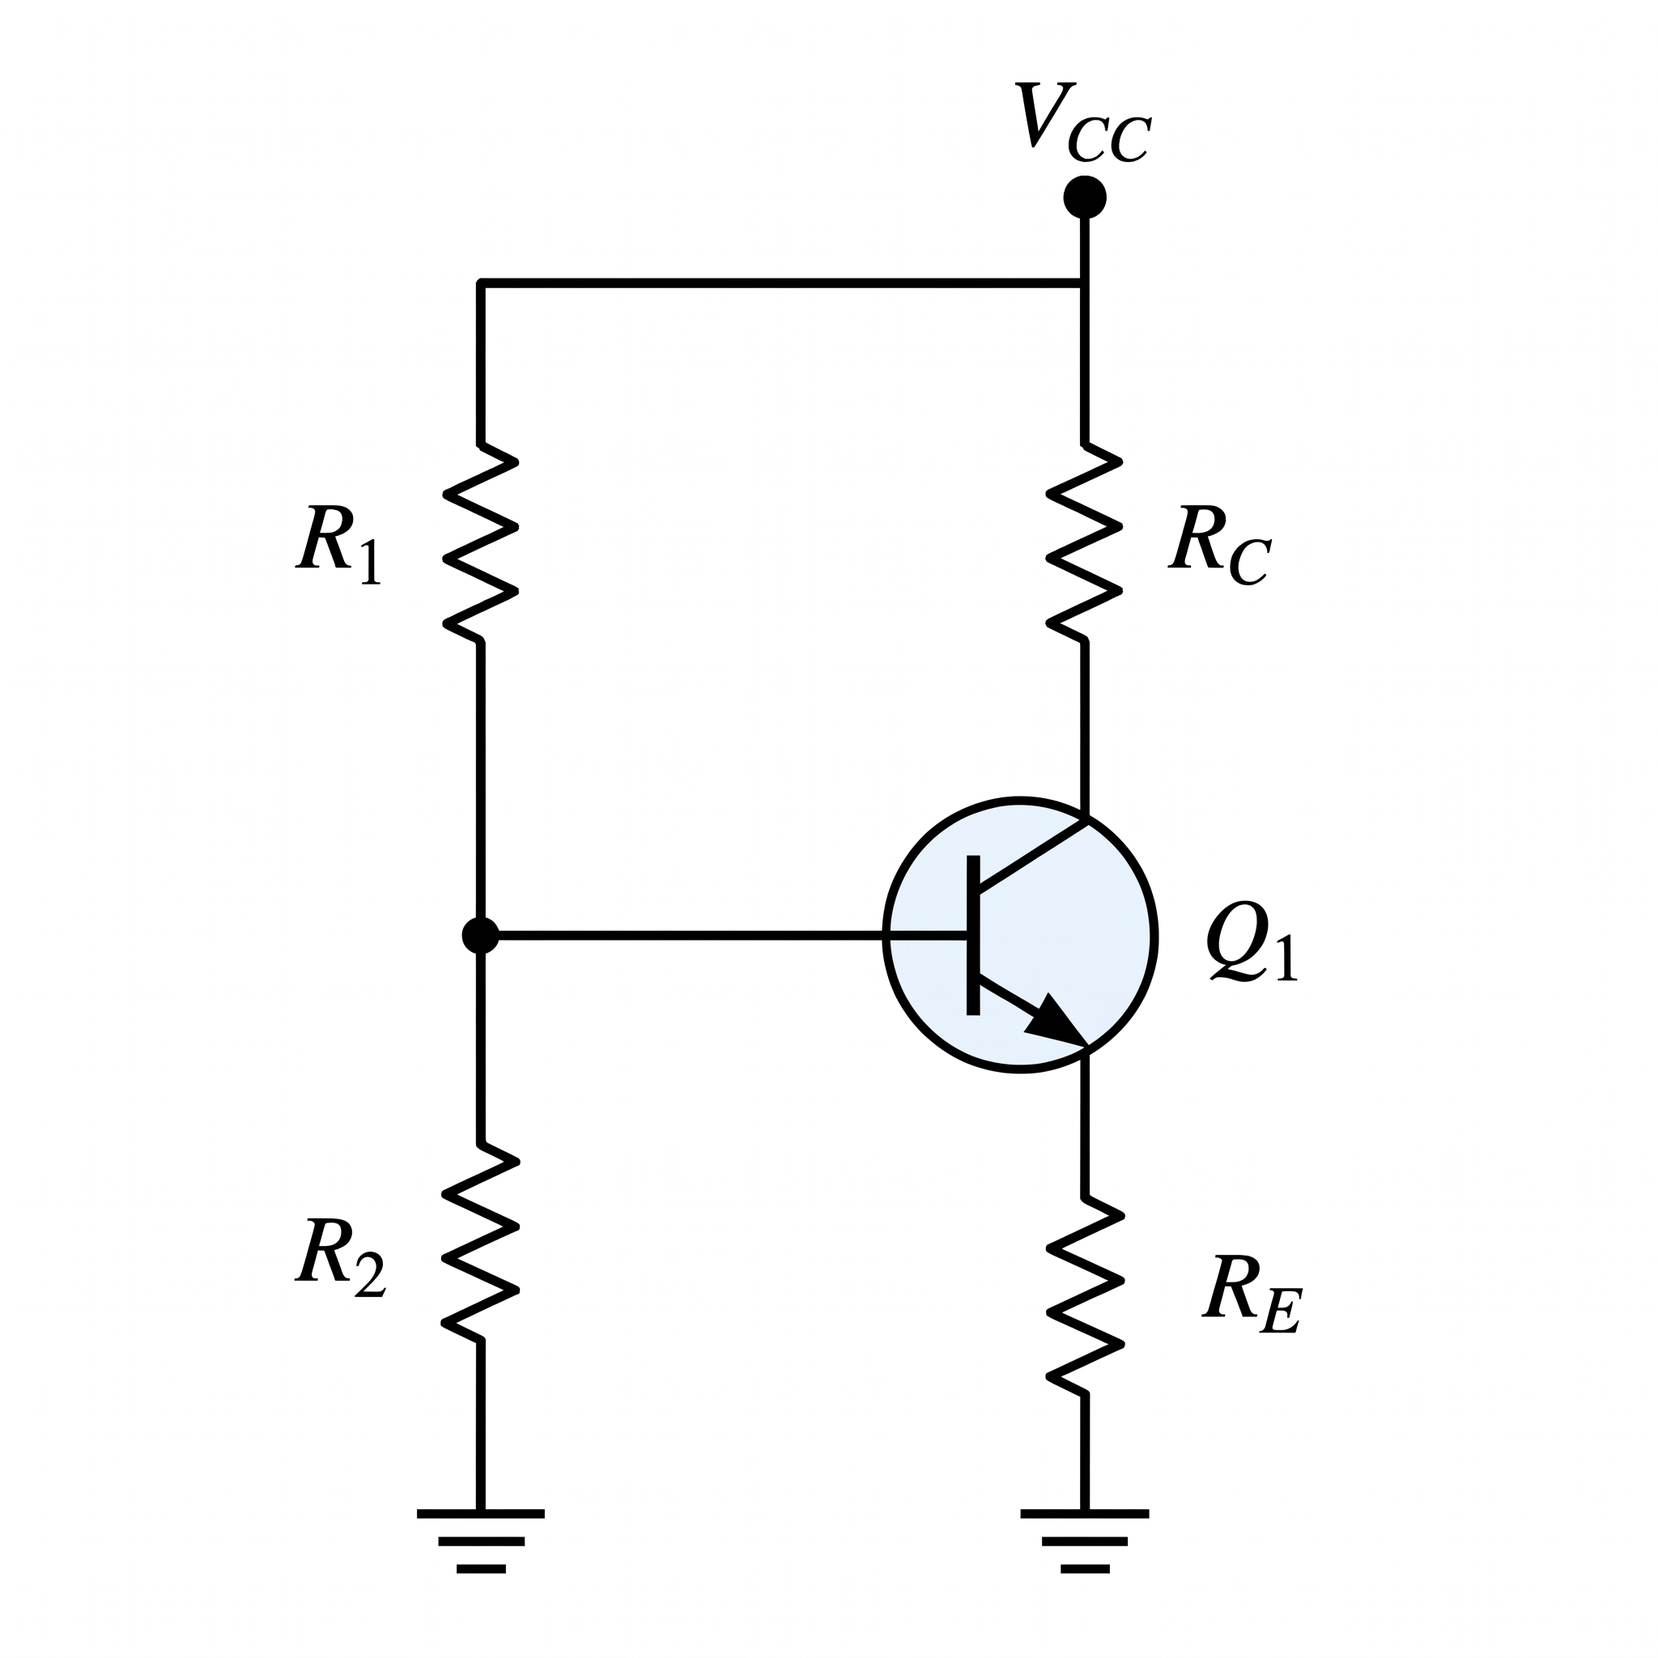
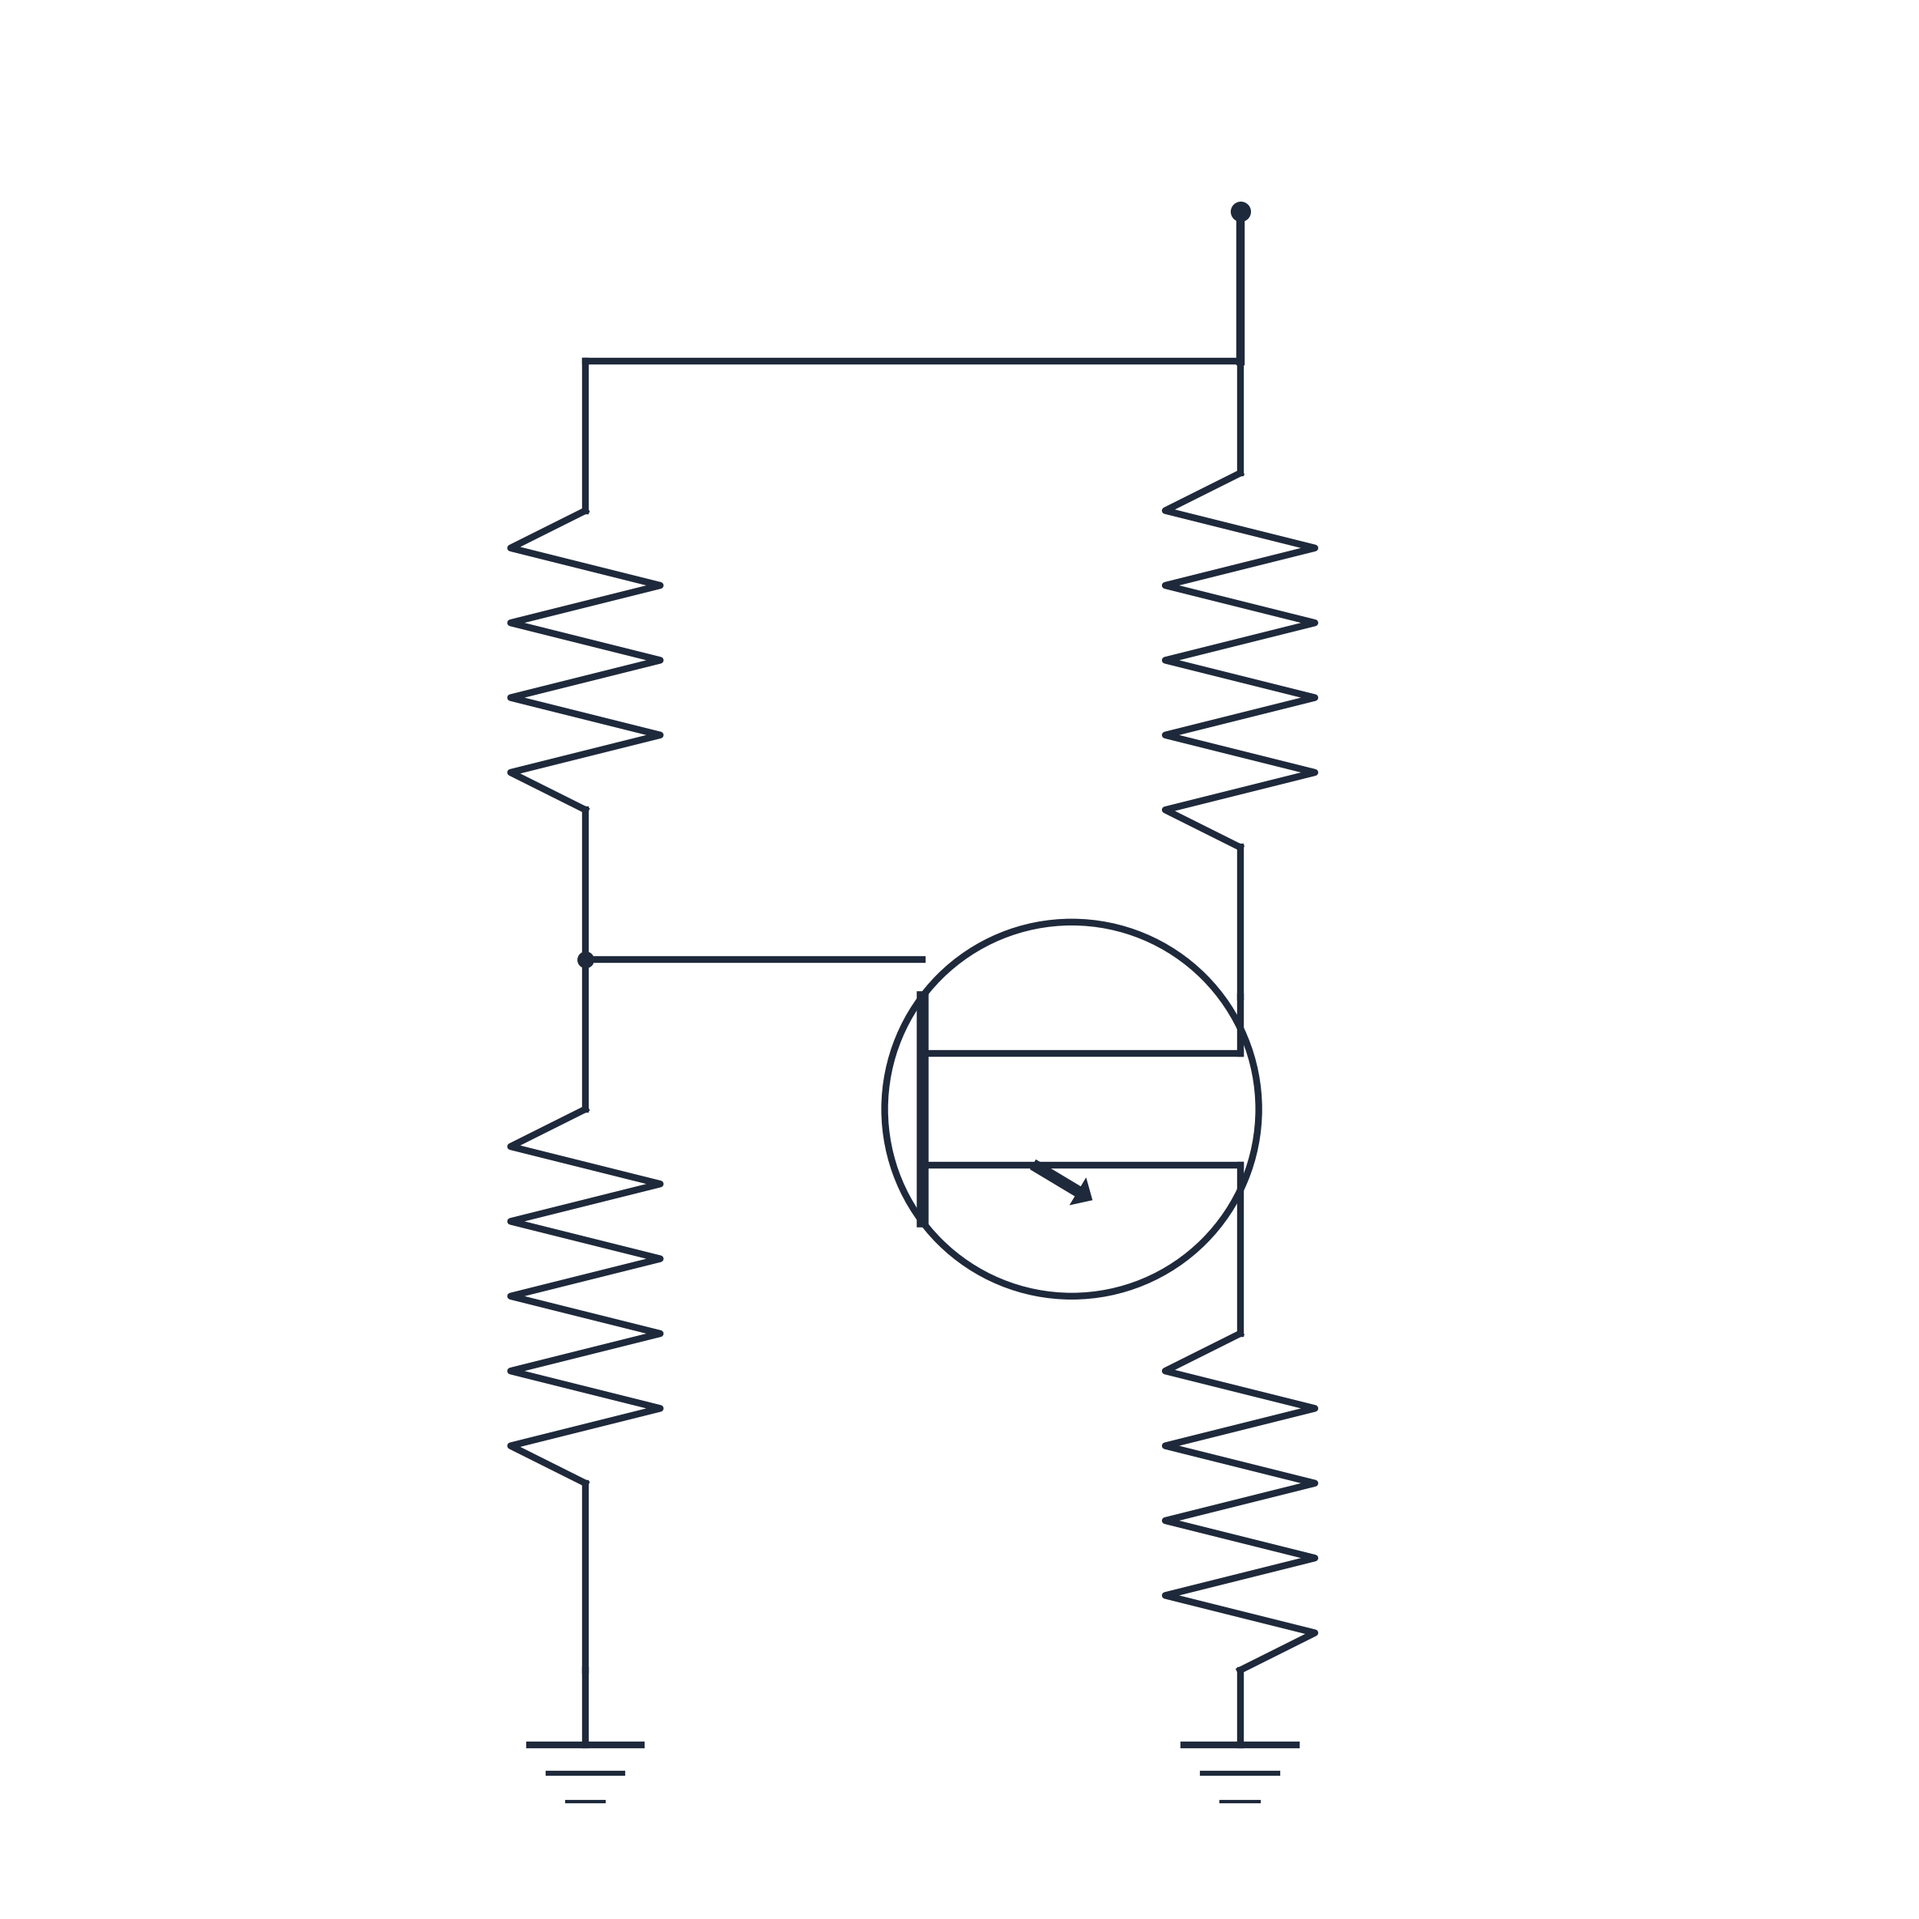
feat: update circuit image, stylesheet, and template layout

Changed region(s): [[0.1875, 0.0312, 0.7812, 0.9688], [0.7188, 0.75, 0.7812, 0.8125], [0.1875, 0.2812, 0.2188, 0.3438]]

diff --git a/templates/index.html b/templates/index.html
@@ -127,7 +127,7 @@
                     <span class="circuit-overlay overlay-r1" id="label-r1">R1</span>
                     <span class="circuit-overlay overlay-r2" id="label-r2">R2</span>
                     <span class="circuit-overlay overlay-re" id="label-re">RE</span>
-                    <span class="circuit-overlay overlay-beta" id="label-beta">(&beta; = 100)</span>
+                    <span class="circuit-overlay overlay-beta" id="label-beta">&beta;</span>
                 </div>
                 <p class="circuit-caption">BJT Common-Emitter DC Bias (Voltage Divider)</p>
                 <script>
@@ -144,7 +144,7 @@
                         document.getElementById('label-r2').innerText = 'R2 = ' + r2Val + ' kΩ';
                         document.getElementById('label-rc').innerText = 'RC = ' + rcVal + ' kΩ';
                         document.getElementById('label-re').innerText = 'RE = ' + reVal + ' kΩ';
-                        document.getElementById('label-beta').innerText = '(β = ' + betaVal + ')';
+                        document.getElementById('label-beta').innerText = 'β = ' + betaVal;
                     }
                     window.onload = updateDiagramLabels;
                 </script>

diff --git a/static/style.css b/static/style.css
@@ -255,12 +255,12 @@ body {
     white-space: nowrap;
 }
 
-.overlay-vcc { top: 10%; left: 63%; }
-.overlay-rc  { top: 32%; left: 78%; }
-.overlay-r1  { top: 32%; left: 17%; }
-.overlay-r2  { top: 68%; left: 17%; }
-.overlay-re  { top: 72%; left: 78%; }
-.overlay-beta { top: 62%; left: 74%; font-size: 0.78rem; transform: translate(-50%, -50%); }
+.overlay-vcc { top: 6%; left: 65%; }
+.overlay-rc  { top: 28%; left: 81%; }
+.overlay-r1  { top: 30%; left: 16%; }
+.overlay-r2  { top: 65%; left: 16%; }
+.overlay-re  { top: 68%; left: 81%; }
+.overlay-beta { top: 58%; left: 78%; font-size: 0.78rem; transform: translate(-50%, -50%); }
 
 /* Right Column: Results Table & Status */
 .results-table-styled {
